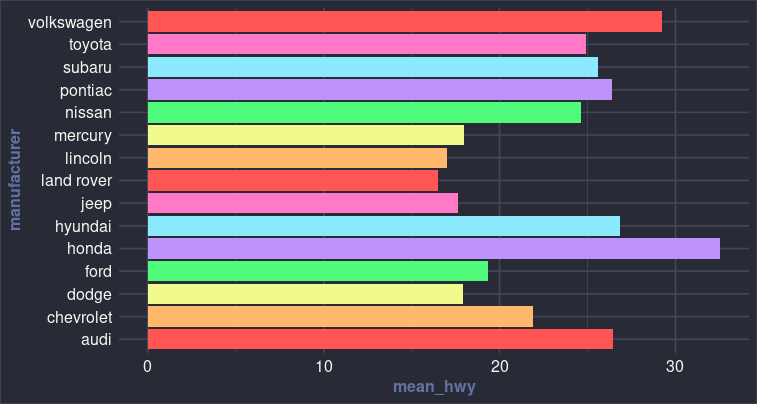
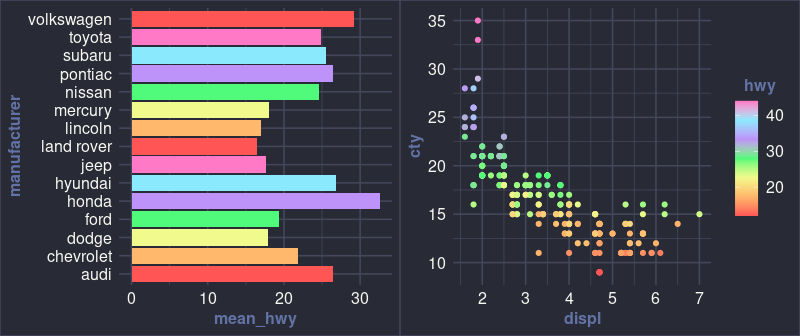
Update screenshot

diff --git a/README.md b/README.md
@@ -33,14 +33,6 @@ mpg %>%
       var_type = "discrete"
     )
   )
-```
-
-![MPG Discrete Bar Chart](img/discrete_mpg.png)
-
-```R
-library(ggplot2)
-library(dplyr)
-theme_set(theme_dracula())
 
 mpg %>%
   ggplot(aes(x = displ, y = cty, color = hwy)) + 
@@ -48,7 +40,7 @@ mpg %>%
   scale_colour_gradientn(colors = dracula_palette(var_type = "continuous"))
 ```
 
-![MPG Continuous Point Chart](img/continuous_mpg.png)
+![MPG Plots](screenshot.png)
 
 ## Install
 
